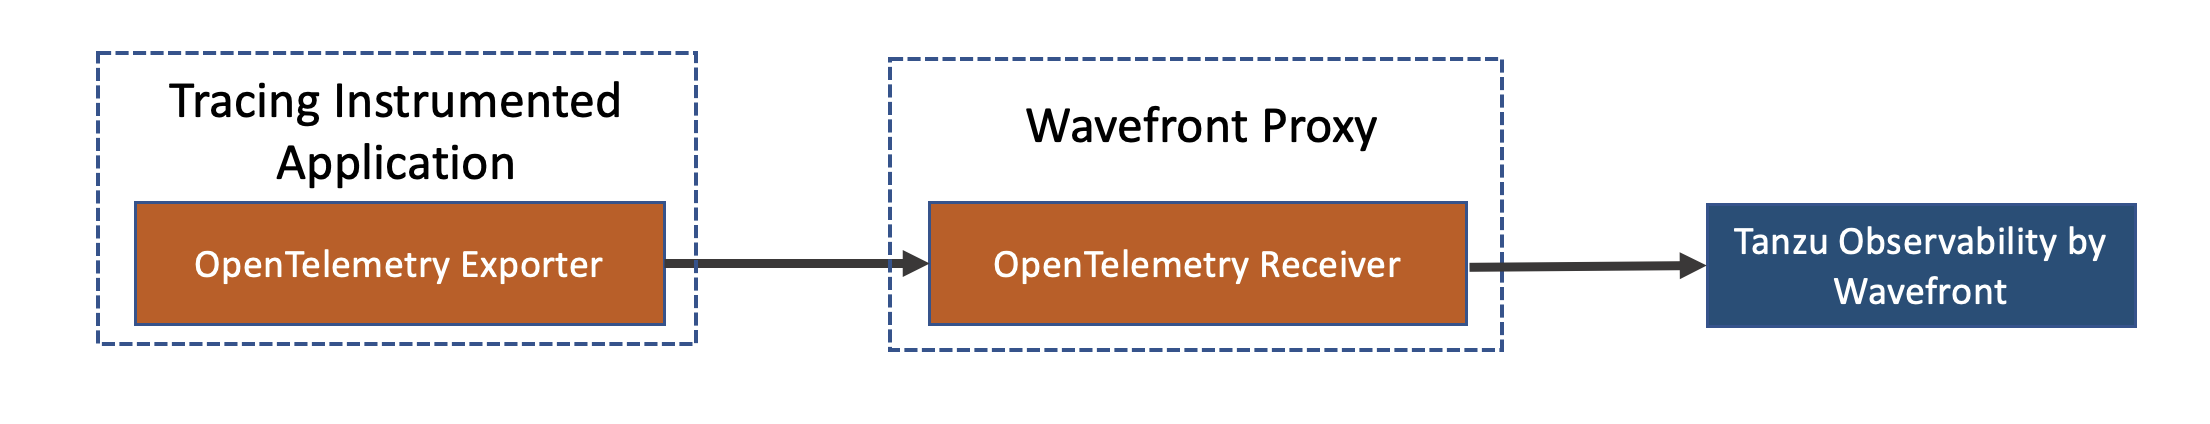
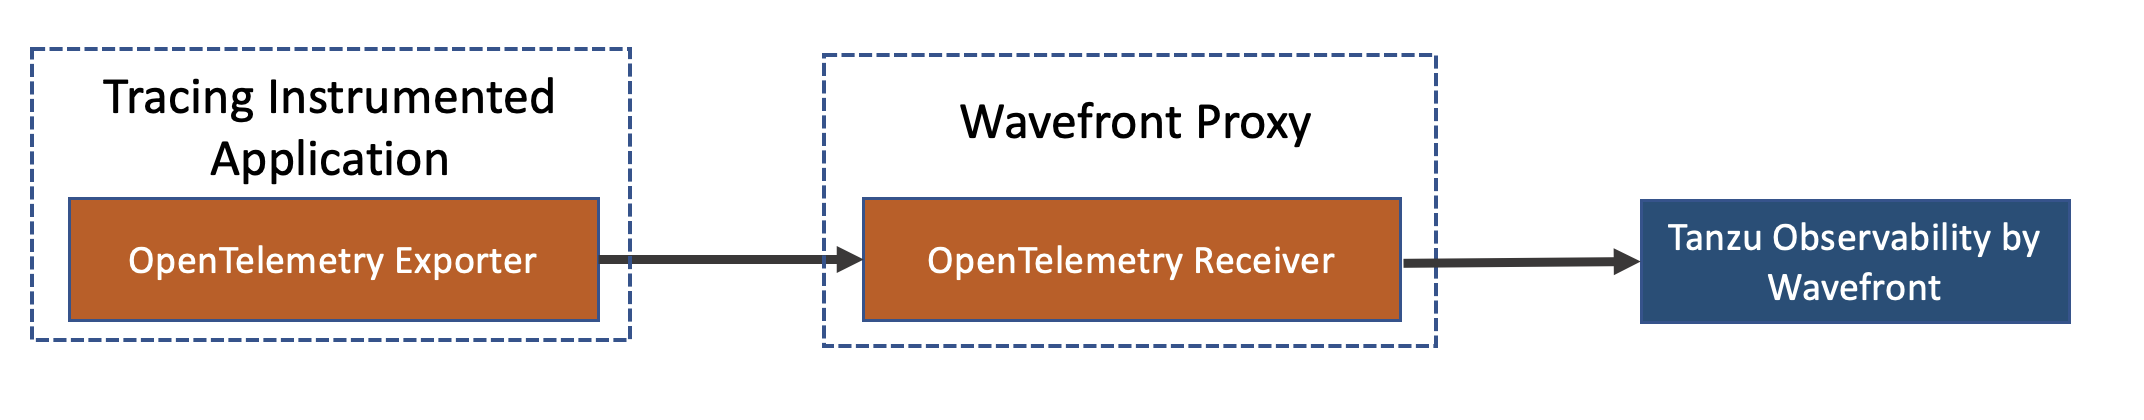
Update as per the feedback

diff --git a/README.md b/README.md
@@ -1,6 +1,6 @@
-# Sending Trace Data to Tanzu Observability by Wavefront
+# Sending Data to Tanzu Observability by Wavefront
 
-If your application uses an OpenTelemetry SDK, you can configure the application to send trace data or metrics data to Tanzu Observability using the Wavefront Proxy or the OpenTelemetry Collector.
+If your application uses an OpenTelemetry SDK, you can configure the application to send traces or metrics to Tanzu Observability using the Wavefront Proxy or the OpenTelemetry Collector.
 
 ## Table of Content
 
@@ -37,14 +37,18 @@ If your application uses an OpenTelemetry SDK, you can configure the application
 ## Send Trace Data
 If your application uses an OpenTelemetry SDK, you can configure the application to send trace data to Tanzu Observability using any of the following options:
 
-* [Directly send OpenTelemetry data to the Wavefront proxy](https://docs.wavefront.com/opentelemetry_tracing.html#send-data-using-the-wavefront-proxy---recommended) - [Recommended]
-* Or [use the OpenTelemetry Collector and the Wavefront proxy](https://docs.wavefront.com/opentelemetry_tracing.html#send-data-using-the-opentelemetry-collector)
+* [**Directly send OpenTelemetry data to the Wavefront proxy**](https://docs.wavefront.com/opentelemetry_tracing.html#send-data-using-the-wavefront-proxy---recommended) - [Recommended]
+  <img src="resources/opentelemetry_proxy_tracing.png" alt="A data flow diagram that shows how the data flows from your application to the proxy, and then to Tanzu Observability" style="width:850px;"/>
+* Or [**use the OpenTelemetry Collector and the Wavefront proxy**](https://docs.wavefront.com/opentelemetry_tracing.html#send-data-using-the-opentelemetry-collector)
+  ![A data flow diagram that shows how the data flows from your application to the collector, to the proxy, and then to Tanzu Observability](resources/opentelemetry_collector_tracing.png)
 
 You can then use our tracing dashboards to visualize any request as a trace, which consists of a hierarchy of spans. This visualization helps you pinpoint where the request is spending most of its time and discover problems.
 
 ## Send Metrics Data
 
 If your application uses an OpenTelemetry SDK, you can configure the application to send metrics data to Tanzu Observability using the Tanzu Observability OpenTelemetry Collector. See [ADD LINK WHEN PUBLISHED]() for details.
+
+![A data flow diagram that shows how the data flows from your application to the collector, to the proxy, and then to Tanzu Observability.](resources/opentelemetry_collector_metrics.png)
 
 ## OpenTelemetry Collector
 
